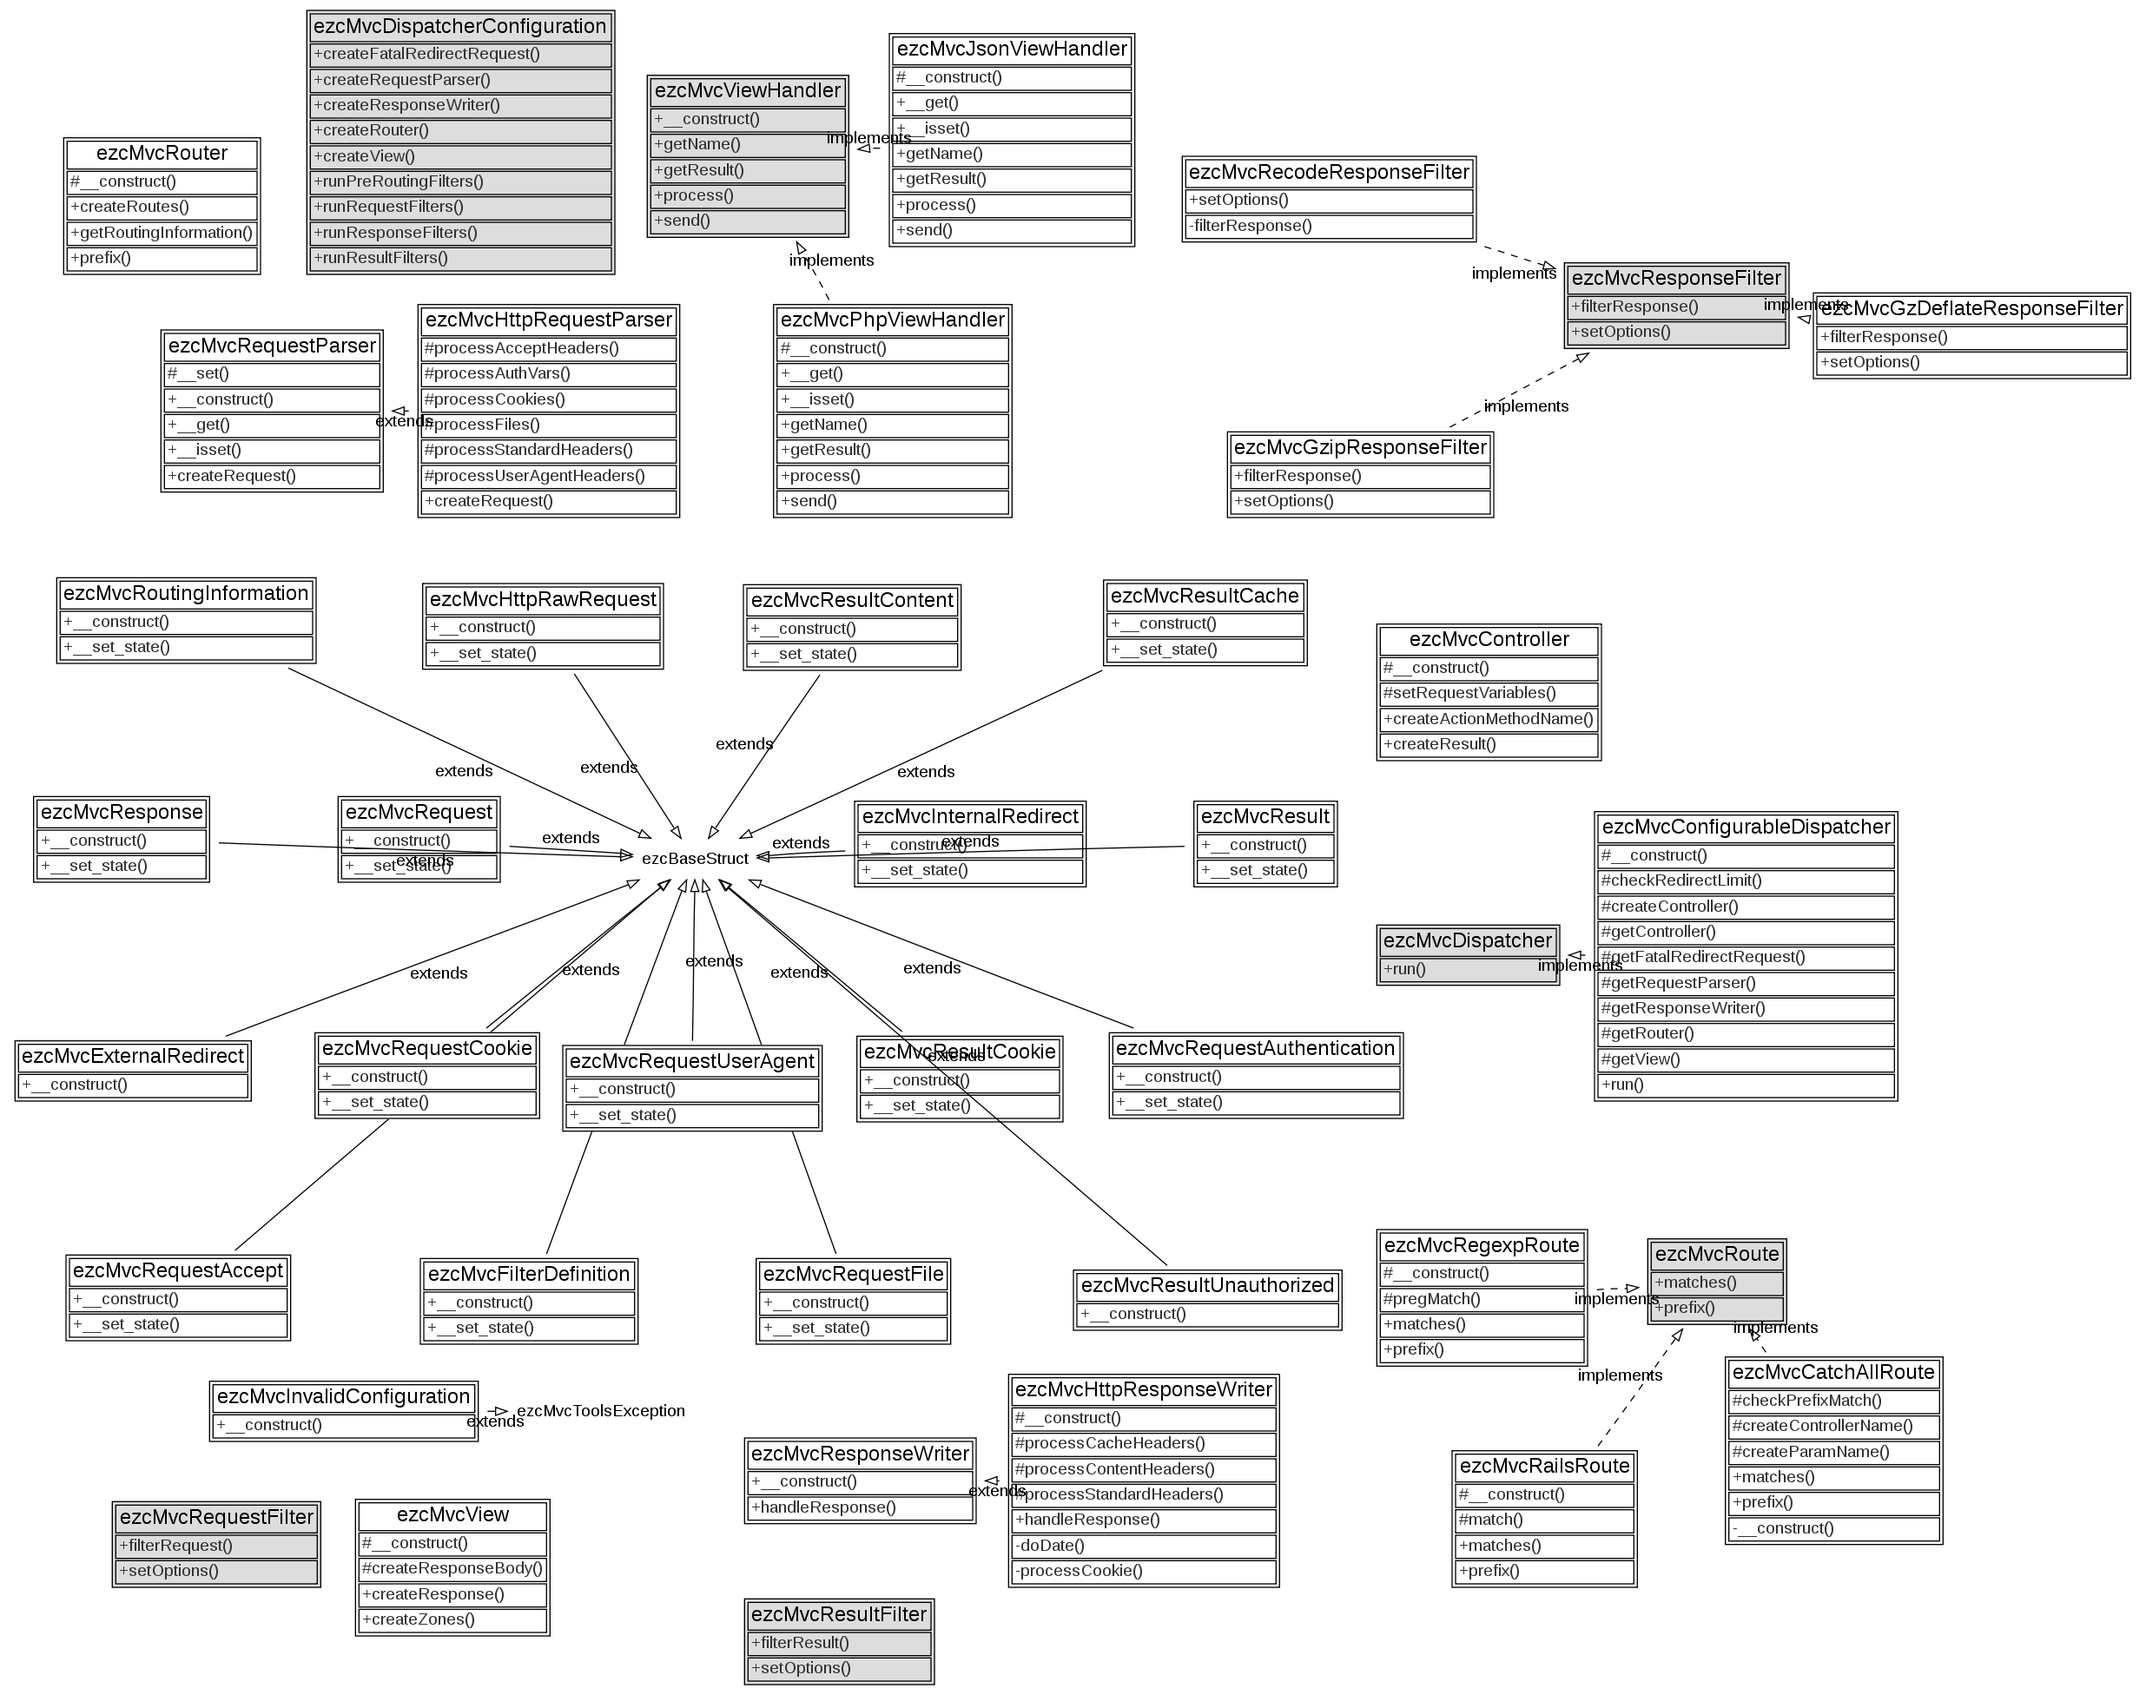
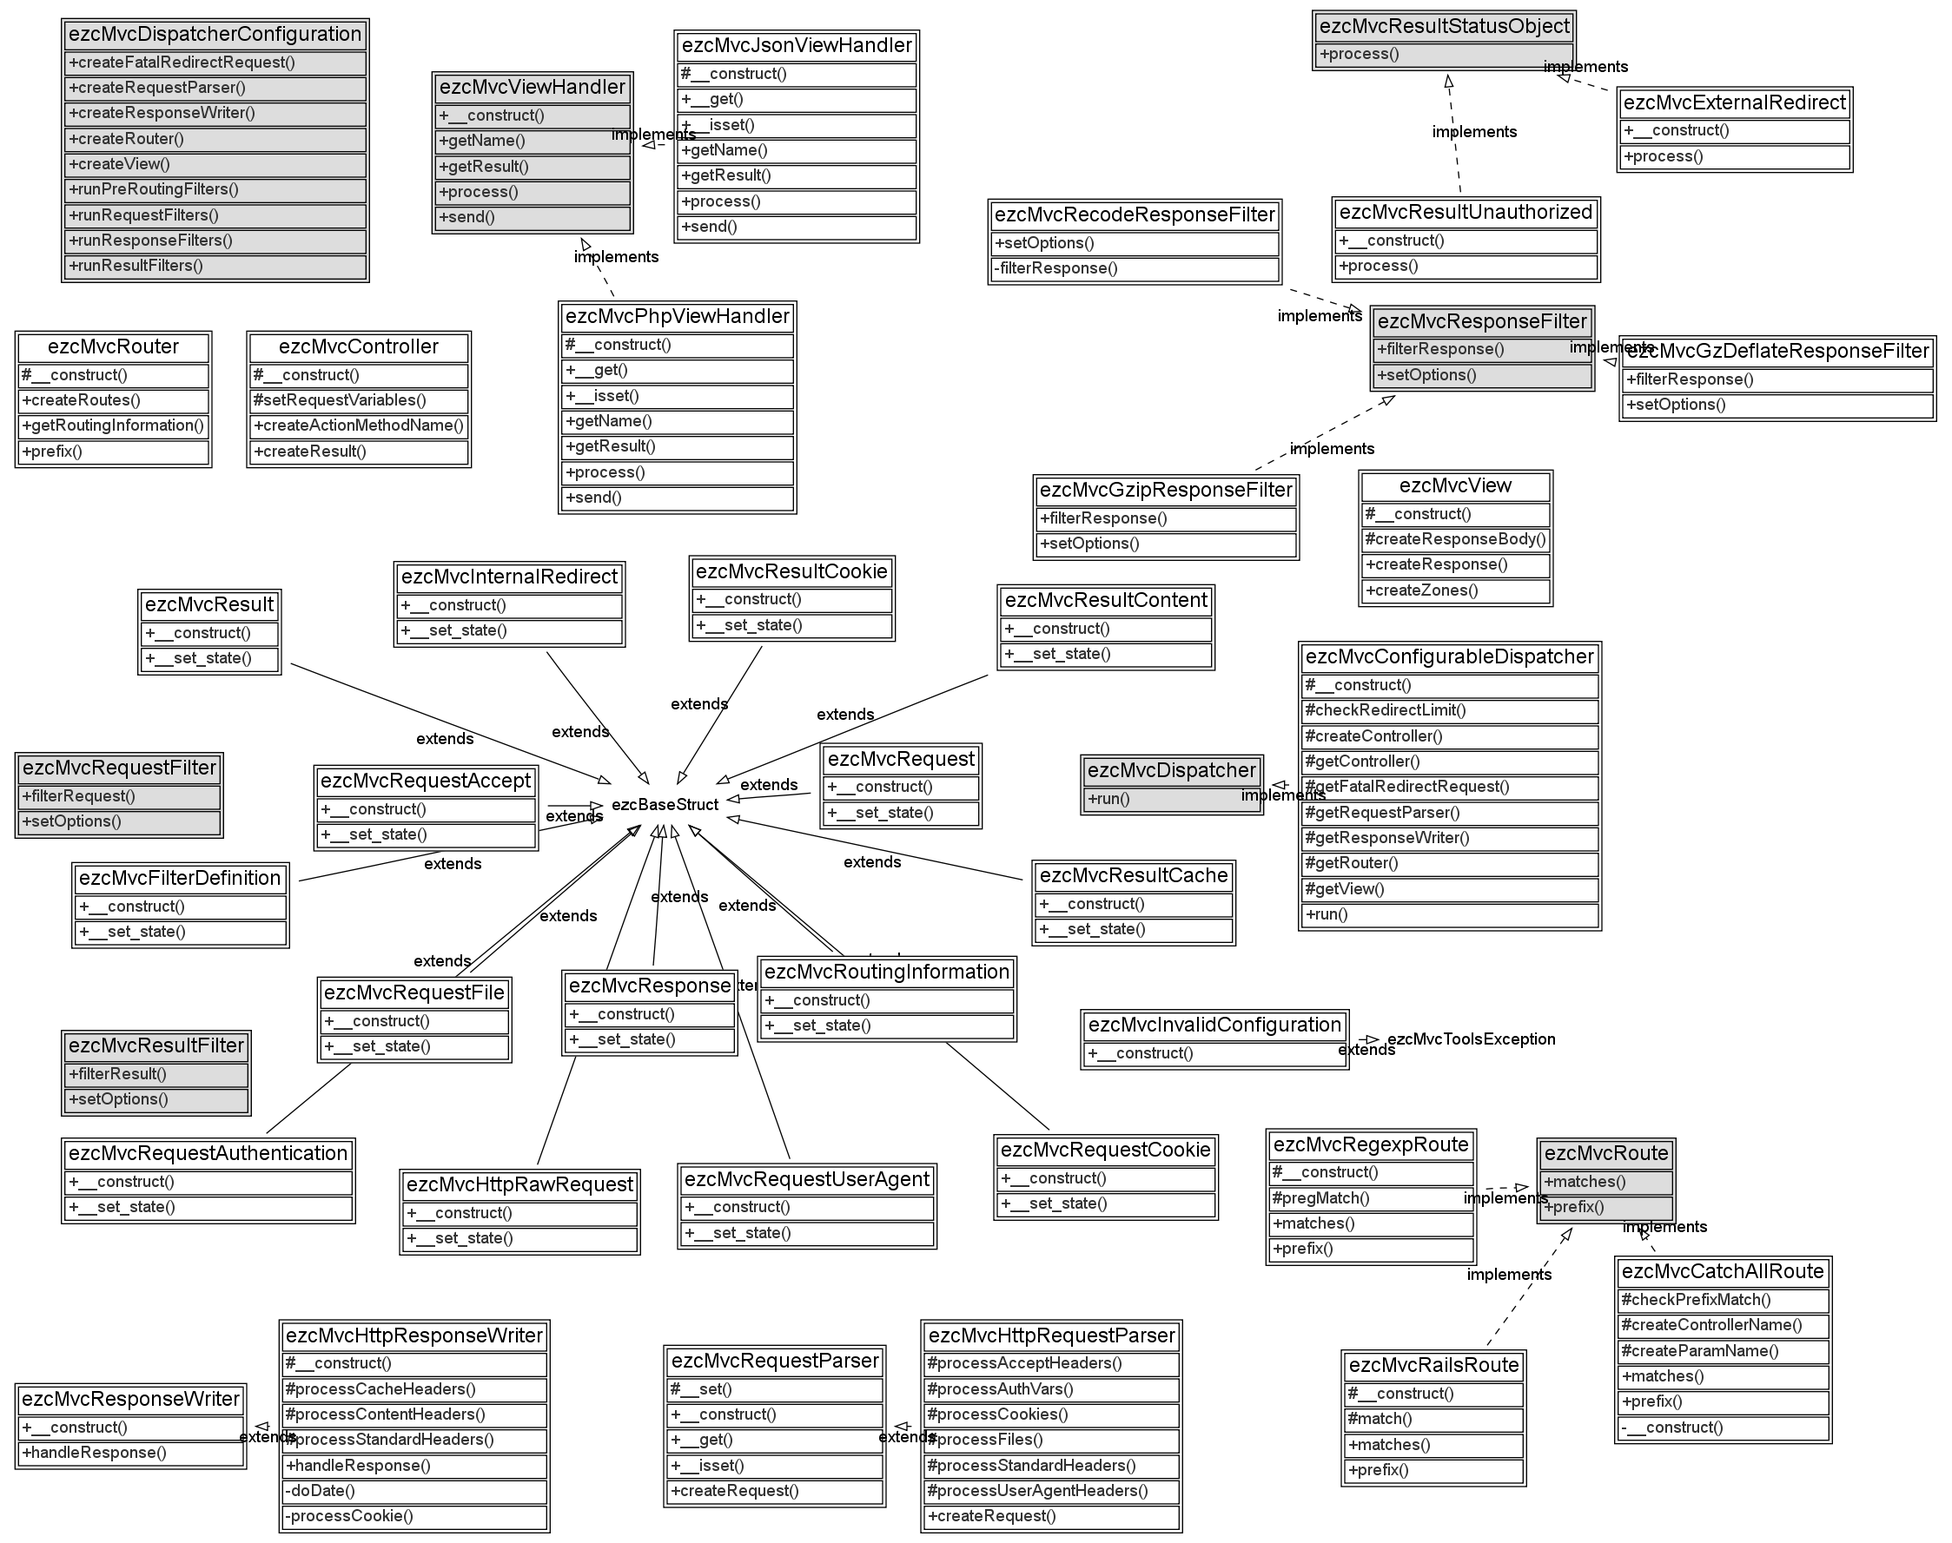
- Refactored HTTP response writer to allow for user-defined status objects to   be used.

Changed region(s): [[0.0, 0.0, 0.9969, 1.0], [0.0312, 0.3405, 0.1558, 0.4333]]

diff --git a/src/response_writers/http.php b/src/response_writers/http.php
@@ -28,7 +28,7 @@ class ezcMvcHttpResponseWriter extends ezcMvcResponseWriter
      *
      * @var array(string=>string)
      */
-    protected $headers;
+    public $headers;
 
     /**
      * Creates a new ezcMvcHttpResponseWriter class to write $response
@@ -60,9 +60,9 @@ class ezcMvcHttpResponseWriter extends ezcMvcResponseWriter
         }
 
         // process the status headers through objects
-        if ( is_object( $this->response->status ) )
+        if ( $this->response->status instanceof ezcMvcResultStatusObject )
         {
-            $this->processStatusObject( $this->response->status );
+            $this->response->status->process( $this );
         }
 
         // automatically add content-length header
@@ -138,8 +138,6 @@ class ezcMvcHttpResponseWriter extends ezcMvcResponseWriter
     {
         $res = $this->response;
 
-        // do something with the status
-
         // generator
         $this->headers['X-Powered-By'] = $res->generator !== ''
             ? $res->generator
@@ -195,24 +193,6 @@ class ezcMvcHttpResponseWriter extends ezcMvcResponseWriter
         if ( $content->encoding )
         {
             $this->headers['Content-Encoding'] = $content->encoding;
-        }
-    }
-
-    /**
-     * Process the $status object to set headers
-     *
-     * @param object $stauts
-     */
-    protected function processStatusObject( $status )
-    {
-        switch ( get_class( $status ) )
-        {
-            case 'ezcMvcExternalRedirect':
-                $this->headers['Location'] = $status->location;
-                break;
-            case 'ezcMvcResultUnauthorized':
-                $this->headers['WWW-Authenticate'] = "Basic realm=\"{$status->realm}\"";
-                break;
         }
     }
 }

diff --git a/src/interfaces/result_status_object.php b/src/interfaces/result_status_object.php
@@ -1,0 +1,34 @@
+<?php
+/**
+ * @copyright Copyright (C) 2005-2008 eZ systems as. All rights reserved.
+ * @license http://ez.no/licenses/new_bsd New BSD License
+ * @version //autogentag//
+ * @filesource
+ * @package MvcTools
+ */
+
+/**
+ * The interface that should be implemented by all special status objects.
+ *
+ * Statis objects are used to specify non-normal results from actions.
+ * As an example that could be a "Authorization Required" status, an external
+ * redirect etc.
+ *
+ *
+ * @package MvcTools
+ * @version //autogentag//
+ */
+interface ezcMvcResultStatusObject
+{
+    /**
+     * This method is called by the response writers to process the data
+     * contained in the status objects.
+     *
+     * The process method it responsible for undertaking the proper action
+     * depending on which response writer is used.
+     *
+     * @param ezcMvcResponseWriter $writer
+     */
+    public function process( ezcMvcResponseWriter $writer );
+}
+?>

diff --git a/src/result_types/unauthorized.php b/src/result_types/unauthorized.php
@@ -14,7 +14,7 @@
  * @package MvcTools
  * @version //autogentag//
  */
-class ezcMvcResultUnauthorized extends ezcBaseStruct
+class ezcMvcResultUnauthorized implements ezcMvcResultStatusObject
 {
     /**
      * The realm is the unique ID to identify a login area
@@ -31,6 +31,19 @@ class ezcMvcResultUnauthorized extends ezcBaseStruct
     public function __construct( $realm )
     {
         $this->realm = $realm;
+    }
+
+    /**
+     * Uses the passed in $writer to set the HTTP authentication header.
+     *
+     * @param ezcMvcResponseWriter $writer
+     */
+    public function process( ezcMvcResponseWriter $writer )
+    {
+        if ( $writer instanceof ezcMvcHttpResponseWriter )
+        {
+            $writer->headers['WWW-Authenticate'] = "Basic realm=\"{$this->realm}\"";
+        }
     }
 }
 ?>

diff --git a/src/result_types/external_redirect.php b/src/result_types/external_redirect.php
@@ -14,7 +14,7 @@
  * @package MvcTools
  * @version //autogentag//
  */
-class ezcMvcExternalRedirect extends ezcBaseStruct
+class ezcMvcExternalRedirect implements ezcMvcResultStatusObject
 {
     /**
      * The location where to re-direct to.
@@ -31,6 +31,19 @@ class ezcMvcExternalRedirect extends ezcBaseStruct
     public function __construct( $location = '/' )
     {
         $this->location = $location;
+    }
+
+    /**
+     * Uses the passed in $writer to set the proper location header.
+     *
+     * @param ezcMvcResponseWriter $writer
+     */
+    public function process( ezcMvcResponseWriter $writer )
+    {
+        if ( $writer instanceof ezcMvcHttpResponseWriter )
+        {
+            $writer->headers['Location'] = $this->location;
+        }
     }
 }
 ?>

diff --git a/src/mvc_autoload.php b/src/mvc_autoload.php
@@ -25,6 +25,7 @@ return array(
     'ezcMvcRequestParser'               => 'MvcTools/interfaces/request_parser.php',
     'ezcMvcResponseFilter'              => 'MvcTools/interfaces/response_filter.php',
     'ezcMvcResponseWriter'              => 'MvcTools/interfaces/response_writer.php',
+    'ezcMvcResultStatusObject'          => 'MvcTools/interfaces/result_status_object.php',
     'ezcMvcRoute'                       => 'MvcTools/interfaces/route.php',
     'ezcMvcViewHandler'                 => 'MvcTools/interfaces/view_handler.php',
     'ezcMvcCatchAllRoute'               => 'MvcTools/routes/catchall.php',

diff --git a/tests/structs/external_redirect.php b/tests/structs/external_redirect.php
@@ -19,7 +19,7 @@ class ezcMvcExternalRedirectTest extends ezcTestCase
     public function testIsStruct()
     {
         $struct = new ezcMvcExternalRedirect();
-        $this->assertTrue( $struct instanceof ezcBaseStruct );
+        $this->assertTrue( $struct instanceof ezcMvcResultStatusObject );
     }
 
     public function testGetSet()
